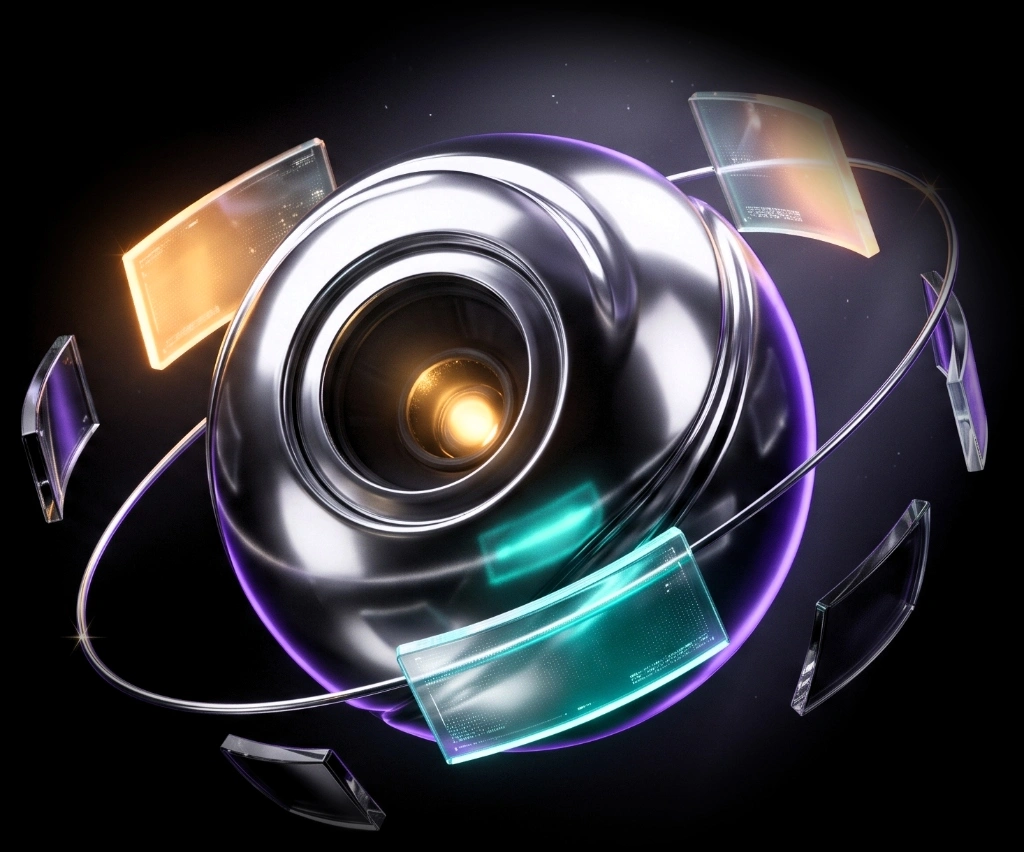
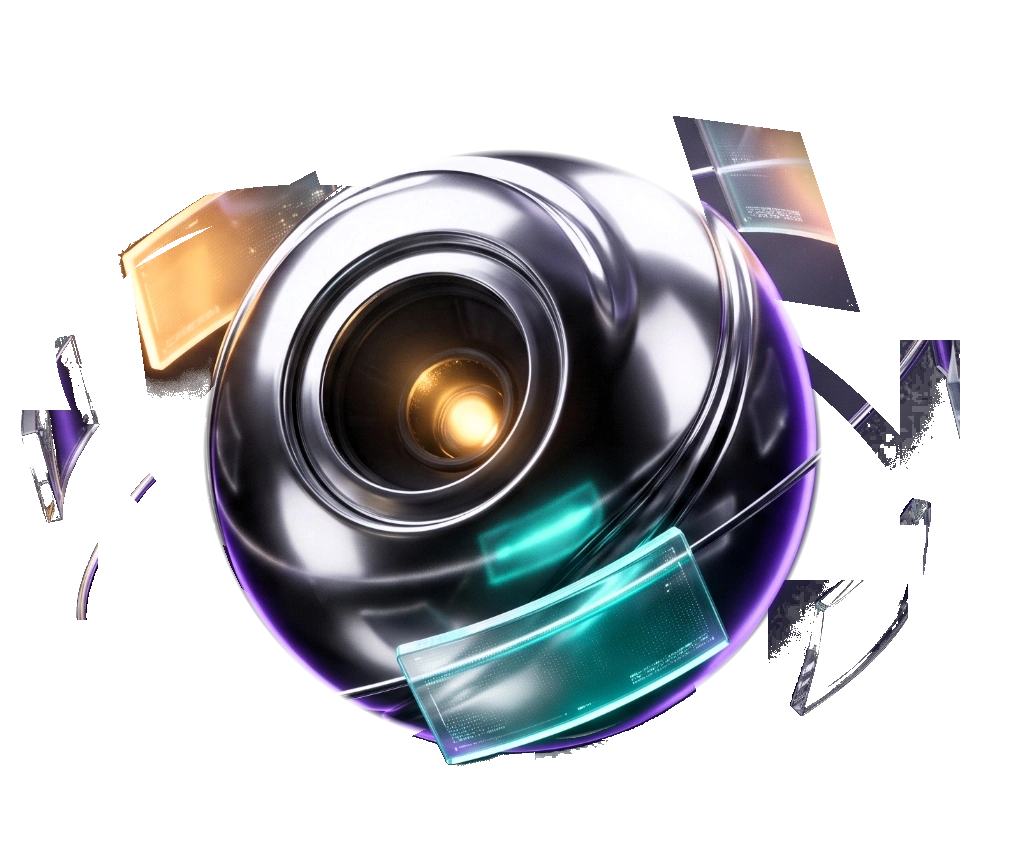
feat(intro): remove black background from dark spot hero orb and refine cinematic dashboard transition

diff --git a/src/components/intro/IntroGate.tsx b/src/components/intro/IntroGate.tsx
@@ -2,14 +2,13 @@
 
 import React, { useState, useEffect, useRef, useCallback } from 'react';
 import Image from 'next/image';
-import { useRouter, useSearchParams } from 'next/navigation';
+import { useRouter } from 'next/navigation';
 import { motion, AnimatePresence } from 'framer-motion';
 import { ArrowRight, Sparkles } from 'lucide-react';
 import { useDarkSpotStore } from '@/store/useDarkSpotStore';
 
 export const IntroGate: React.FC = () => {
   const router = useRouter();
-  const searchParams = useSearchParams();
   const { setCurrentView, loadSampleMode } = useDarkSpotStore();
 
   // State
@@ -31,8 +30,10 @@ export const IntroGate: React.FC = () => {
     const prefersReduced = window.matchMedia('(prefers-reduced-motion: reduce)').matches;
     setIsReducedMotion(prefersReduced);
 
+    const params = typeof window !== 'undefined' ? new URLSearchParams(window.location.search) : null;
+
     // Auto-skip when query has ?skip=1
-    if (searchParams.get('skip') === '1') {
+    if (params?.get('skip') === '1') {
       setCurrentView('dashboard');
       loadSampleMode();
       router.replace('/home?view=dashboard');
@@ -42,7 +43,7 @@ export const IntroGate: React.FC = () => {
     // Check sessionStorage intro_seen (unless ?replay=1)
     if (typeof window !== 'undefined') {
       const seen = sessionStorage.getItem('intro_seen');
-      if (seen && searchParams.get('replay') !== '1') {
+      if (seen && params?.get('replay') !== '1') {
         setCurrentView('dashboard');
         loadSampleMode();
         router.replace('/home?view=dashboard');
@@ -61,7 +62,7 @@ export const IntroGate: React.FC = () => {
       normX: 0,
       normY: 0,
     });
-  }, [router, searchParams, setCurrentView, loadSampleMode]);
+  }, [router, setCurrentView, loadSampleMode]);
 
   // Loading Counter Animation (min 1.8s, max 2.6s)
   useEffect(() => {
@@ -465,13 +466,14 @@ export const IntroGate: React.FC = () => {
               {!imageError ? (
                 <div className="relative w-full h-full flex items-center justify-center">
                   <Image
-                    src="/art/hero-orb.webp"
+                    src="/art/hero-orb.png"
                     alt="Chrome sphere with an amber core surrounded by floating document panels"
                     width={1024}
                     height={852}
                     priority
+                    unoptimized
                     onError={() => setImageError(true)}
-                    className="w-full h-auto object-contain select-none pointer-events-none mix-blend-screen"
+                    className="w-full h-auto object-contain select-none pointer-events-none"
                   />
                 </div>
               ) : (
